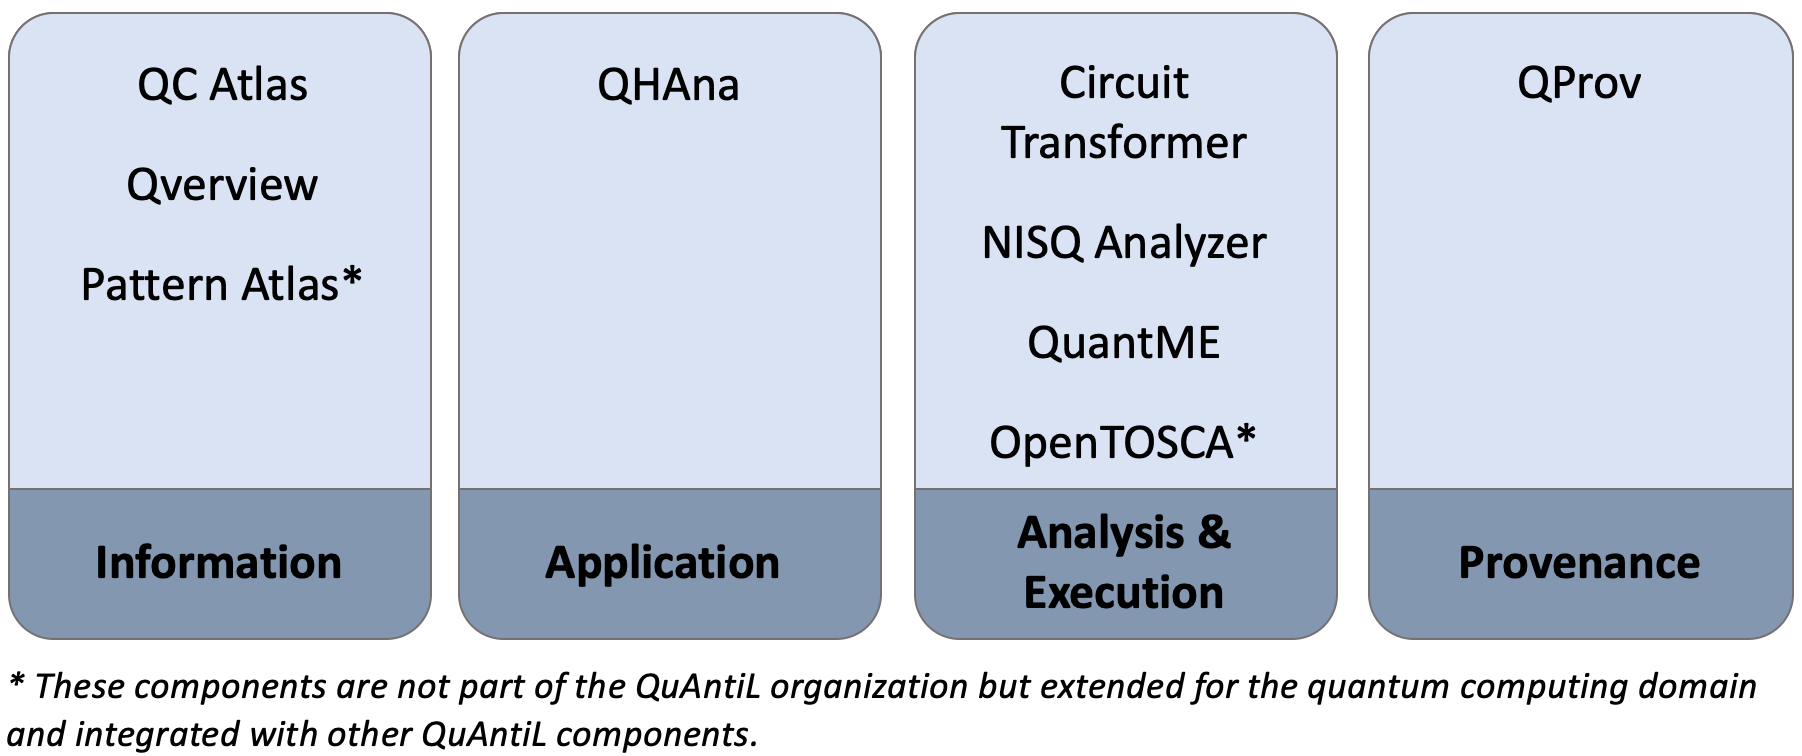
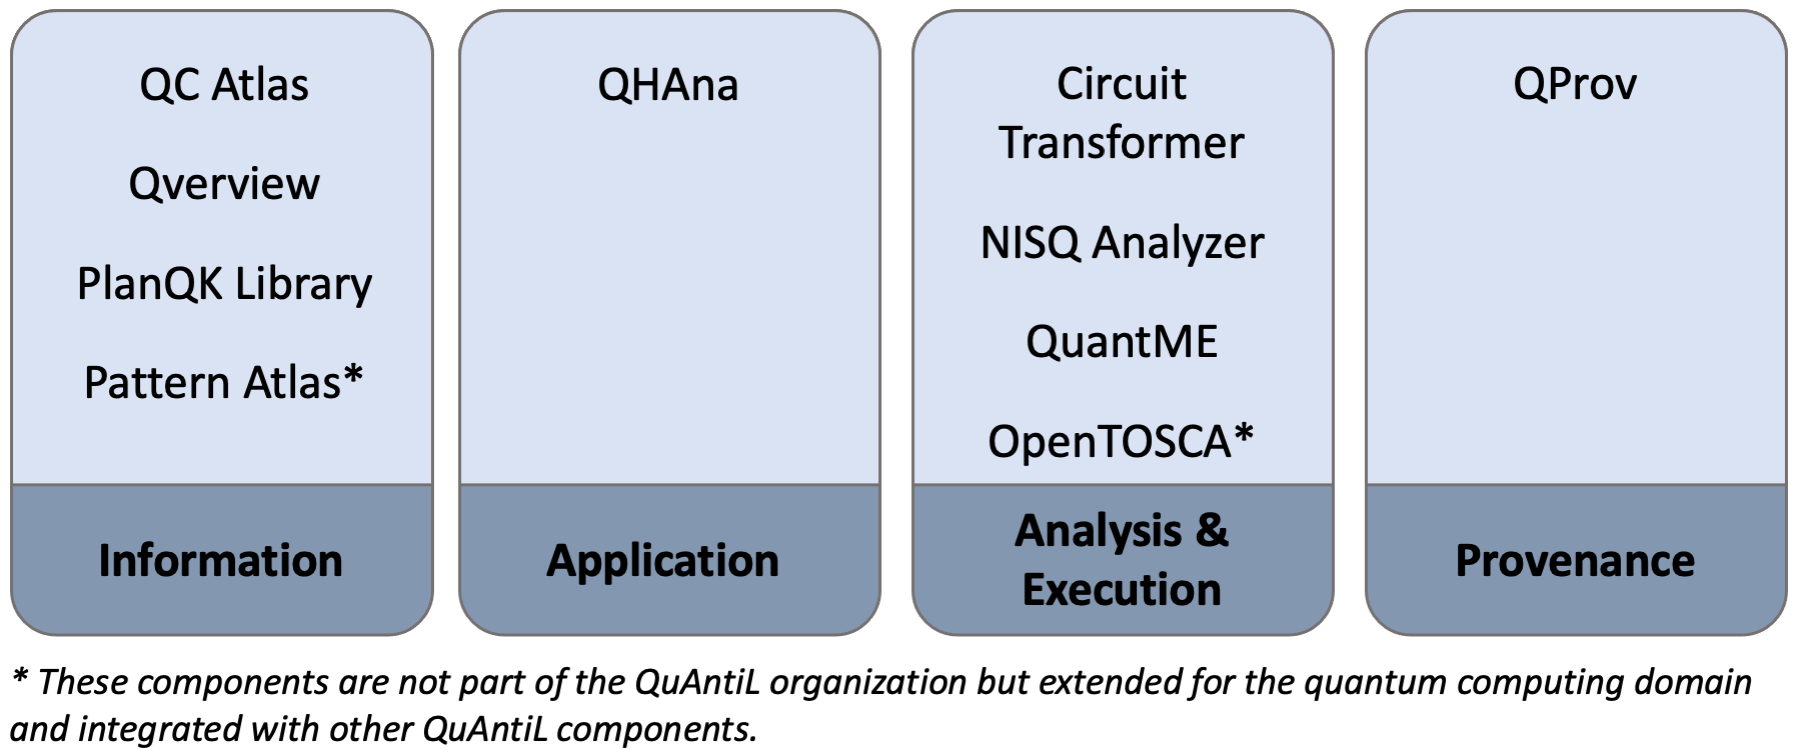
add new figures

diff --git a/docs/index.md b/docs/index.md
@@ -24,7 +24,7 @@ It already contains several patterns for quantum algorithms and allows to includ
 [Qverview](./user-guide/qverview.md) provides an overview of several technologies for quantum application development such as development kits, cloud services, programming languages, etc.
 It enables to analyze and compare different technologies and identify their interoperability.
 
-The [Library](https://github.com/UST-QuAntiL/PlanQK-Library) is a simple REST API to use [JabRef](https://github.com/JabRef/jabref) as a service in order to manage bibTex entries and conduct systematic literature reviews.
+The [PlanQK Library](https://github.com/UST-QuAntiL/PlanQK-Library) is a simple REST API to use [JabRef](https://github.com/JabRef/jabref) as a service in order to manage bibTex entries and conduct systematic literature reviews.
 
 ### Application
 
